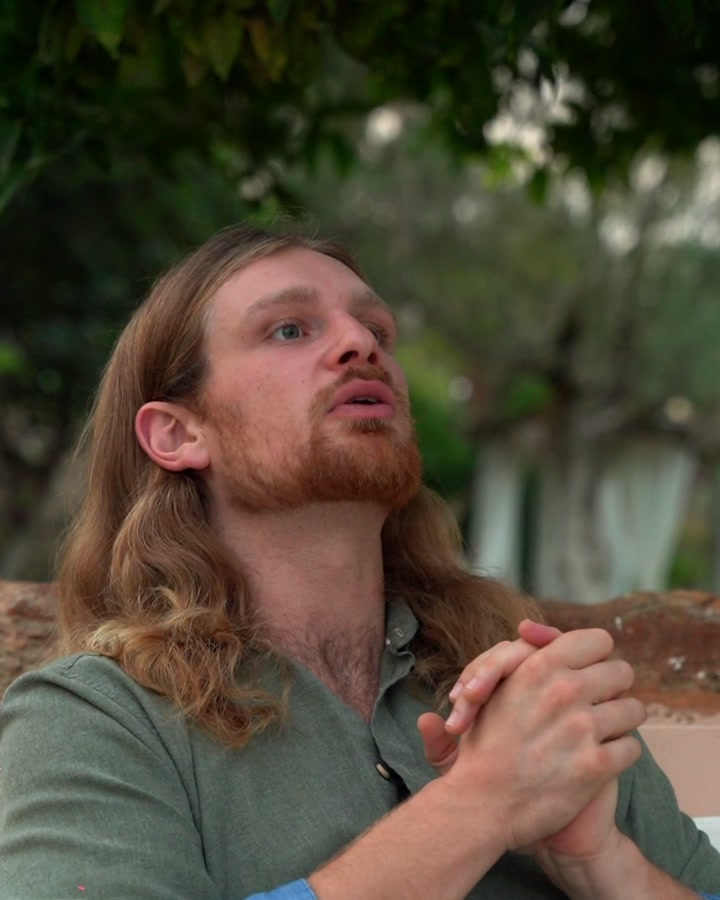
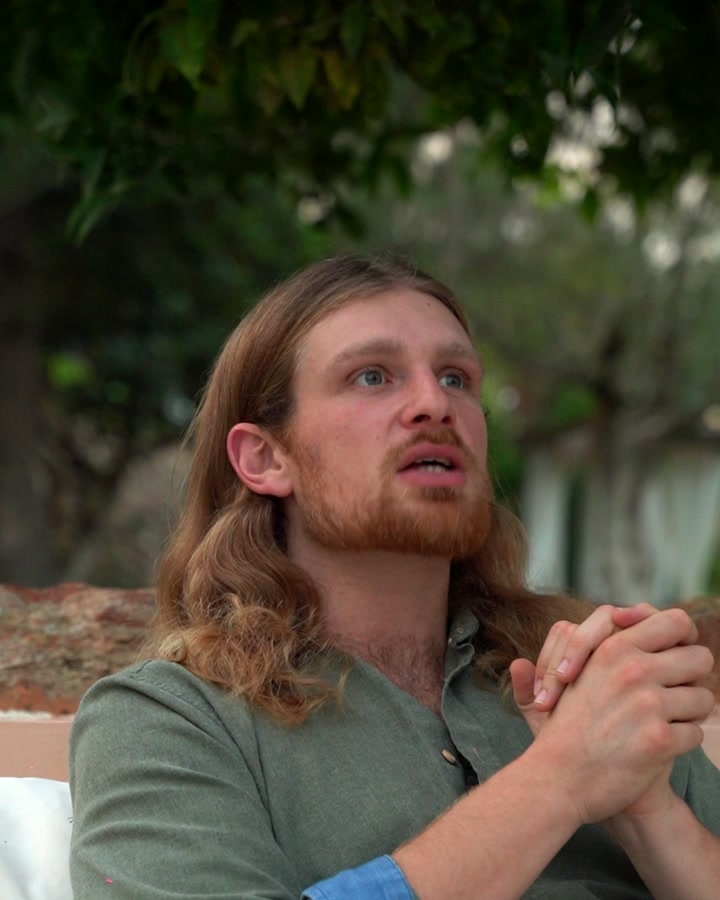
Voices: founding members carousel, names, tighter portrait crops

diff --git a/components/sections/home/HomeVoices.tsx b/components/sections/home/HomeVoices.tsx
@@ -2,9 +2,10 @@ import Section from '@/components/ui/Section'
 import RevealOnScroll from '@/components/ui/RevealOnScroll'
 import Photo from '@/components/ui/Photo'
 import { VOICES } from '@/content/home'
+import VoicesCarousel from './VoicesCarousel'
 
-// Voices from Ibiza: a still from each interview and one line, verbatim.
-// On phones the cards scroll sideways; from lg they sit in one row of five.
+// Voices from founding members: a still from each interview and one line,
+// verbatim, in a swipeable carousel (about 4 cards visible on desktop, 1.5 on phones).
 export default function HomeVoices() {
   return (
     <Section tone="light" id="voices">
@@ -14,29 +15,33 @@ export default function HomeVoices() {
         <p className="mt-4 max-w-xl text-sm" style={{ color: 'var(--text-secondary)' }}>{VOICES.intro}</p>
       </RevealOnScroll>
 
-      <ul className="-mx-6 mt-10 grid snap-x snap-mandatory scroll-px-6 auto-cols-[78%] grid-flow-col gap-4 overflow-x-auto px-6 pb-2 md:-mx-10 md:scroll-px-10 md:px-10 sm:auto-cols-[45%] lg:mx-0 lg:grid-flow-row lg:grid-cols-5 lg:overflow-visible lg:px-0">
-        {VOICES.items.map((v, i) => (
-          <li key={v.clip} className="snap-start">
-            <RevealOnScroll delay={i * 0.05} className="group flex h-full flex-col">
-              <Photo
-                src={v.src}
-                alt={`${v.name}, interviewed at the VIVRA gathering in Ibiza`}
-                aspect="aspect-[4/5]"
-                quality={90}
-                sizes="(min-width: 1024px) 20vw, (min-width: 640px) 45vw, 78vw"
-                imgClassName="transition-transform duration-700 ease-out group-hover:scale-105"
-              />
-              <figure className="mt-5 flex flex-1 flex-col border-t pt-5" style={{ borderColor: 'var(--copper)' }}>
-                <blockquote className="font-display text-lg leading-snug">“{v.quote}”</blockquote>
-                <figcaption className="mt-4 text-sm">
-                  <span>{v.name}</span>
-                  {v.role && <span style={{ color: 'var(--text-quiet)' }}>, {v.role}</span>}
-                </figcaption>
+      <div className="mt-6">
+        <VoicesCarousel label={VOICES.eyebrow}>
+          {VOICES.items.map((v, i) => (
+            <li key={v.clip} className="snap-start" aria-roledescription="slide" aria-label={`${i + 1} of ${VOICES.items.length}`}>
+              <figure className="group flex h-full flex-col">
+                <div className="overflow-hidden">
+                  <Photo
+                    src={v.src}
+                    alt={`${v.name}${v.role ? `, ${v.role}` : ''}, a founding member of VIVRA`}
+                    aspect="aspect-[4/5]"
+                    quality={85}
+                    sizes="(min-width: 1024px) 22vw, (min-width: 768px) 29vw, (min-width: 640px) 40vw, 68vw"
+                    imgClassName="transition-transform duration-700 ease-out group-hover:scale-105"
+                  />
+                </div>
+                <div className="mt-4 flex flex-1 flex-col border-t pt-4" style={{ borderColor: 'var(--copper)' }}>
+                  <blockquote className="font-display text-base leading-snug md:text-lg">“{v.quote}”</blockquote>
+                  <figcaption className="mt-3 text-sm">
+                    <span>{v.name}</span>
+                    {v.role && <span style={{ color: 'var(--text-quiet)' }}>, {v.role}</span>}
+                  </figcaption>
+                </div>
               </figure>
-            </RevealOnScroll>
-          </li>
-        ))}
-      </ul>
+            </li>
+          ))}
+        </VoicesCarousel>
+      </div>
     </Section>
   )
 }

diff --git a/content/home.ts b/content/home.ts
@@ -280,51 +280,51 @@ export const APPLY = {
   note: 'Francisco will write to you to schedule a short call about your profile, our next gatherings and VIVRA membership.',
 }
 
-// [INTERVIEWS] Voices from Ibiza. Quotes are verbatim from the burned-in English
+// [INTERVIEWS] Voices from founding members. Quotes are verbatim from the burned-in English
 // subtitles of the 13 Oct 2026 interview clips (Downloads\VIVRA RETIRO\entrevistas);
 // "…" marks a cut, nothing is reworded. Catalogue: fran-os task VIV-0011.
 // Photos are clean stills from each clip, cropped above the subtitle band.
-// CONFIRM: each person's name and role (shown as [PENDIENTE nombre] until then).
+// Names from Francisco, 2026-11-25. Roles left empty unless already on the site.
 // CONFIRM: written consent from each person (VIV-0011). Until Francisco confirms
 // it in writing, the section renders on preview/staging only, never on production
 // (see showTestimonials() in lib/flags.ts).
 export const VOICES = {
-  eyebrow: 'Voices from Ibiza',
+  eyebrow: 'Voices from founding members',
   heading: 'In their words.',
-  intro: 'Recorded at Can Aylma during the first VIVRA gathering, October 2026.',
+  intro: 'Recorded at the first VIVRA gathering, October 2026.',
   items: [
     {
       clip: 'entrevista 13',
       quote: 'VIVRA events and gatherings is about bringing that collective power and that collective dreams into collective realities.',
-      name: '[PENDIENTE nombre]',
-      role: '',
+      name: 'Saha',
+      role: 'Energy healer',
       src: '/images/testimonials/voice-e13.jpg',
     },
     {
       clip: 'entrevista 17',
       quote: 'It represents a much broader platform for doing good in this world… It’s so scalable here.',
-      name: '[PENDIENTE nombre]',
+      name: 'Bill',
       role: '',
       src: '/images/testimonials/voice-e17.jpg',
     },
     {
       clip: 'entrevista22',
       quote: 'Each of us is doing our own thing, but hopefully together we could do something that actually lasts in time.',
-      name: '[PENDIENTE nombre]',
+      name: 'Sharon',
       role: '',
       src: '/images/testimonials/voice-e22.jpg',
     },
     {
       clip: 'entrevista9',
       quote: 'To me, VIVRA is a new way of living… We usually are divided between work, family, friendship and passion. We want to gather all this in the same place.',
-      name: '[PENDIENTE nombre]',
-      role: '',
+      name: 'Manuele Monti',
+      role: 'Co-founder, VIVRA',
       src: '/images/testimonials/voice-e9.jpg',
     },
     {
       clip: 'entrevista21',
       quote: 'I’m really excited to go back home and take all these different perspectives and best ideas and go demonstrate what it really means to be regenerative.',
-      name: '[PENDIENTE nombre]',
+      name: 'Drew',
       role: '',
       src: '/images/testimonials/voice-e21.jpg',
     },

diff --git a/components/sections/home/VoicesCarousel.tsx b/components/sections/home/VoicesCarousel.tsx
@@ -1,0 +1,60 @@
+'use client'
+
+import { useCallback, useEffect, useRef, useState } from 'react'
+
+// A native scroll-snap track with previous/next buttons. Every card is in the
+// server-rendered HTML (good for search and for no-JS visitors); the buttons
+// only scroll the track. Swipe works on phones, Shift+wheel/trackpad on desktop.
+export default function VoicesCarousel({ children, label }: { children: React.ReactNode; label: string }) {
+  const track = useRef<HTMLUListElement>(null)
+  const [atStart, setAtStart] = useState(true)
+  const [atEnd, setAtEnd] = useState(false)
+
+  const update = useCallback(() => {
+    const el = track.current
+    if (!el) return
+    setAtStart(el.scrollLeft <= 4)
+    setAtEnd(el.scrollLeft + el.clientWidth >= el.scrollWidth - 4)
+  }, [])
+
+  useEffect(() => {
+    update()
+    const el = track.current
+    el?.addEventListener('scroll', update, { passive: true })
+    window.addEventListener('resize', update)
+    return () => {
+      el?.removeEventListener('scroll', update)
+      window.removeEventListener('resize', update)
+    }
+  }, [update])
+
+  const go = (dir: 1 | -1) => {
+    const el = track.current
+    if (!el) return
+    const card = el.querySelector('li')
+    const step = card ? card.getBoundingClientRect().width + 16 : el.clientWidth * 0.8
+    el.scrollBy({ left: dir * step, behavior: 'smooth' })
+  }
+
+  const btn =
+    'flex h-11 w-11 items-center justify-center border transition-colors hover:border-[var(--copper-deep)] hover:text-[var(--copper-deep)] disabled:pointer-events-none disabled:opacity-30'
+
+  return (
+    <div role="region" aria-roledescription="carousel" aria-label={label}>
+      <div className="flex justify-end gap-2">
+        <button type="button" className={btn} style={{ borderColor: 'var(--rule)' }} onClick={() => go(-1)} disabled={atStart} aria-label="Previous voices">
+          <span aria-hidden="true">←</span>
+        </button>
+        <button type="button" className={btn} style={{ borderColor: 'var(--rule)' }} onClick={() => go(1)} disabled={atEnd} aria-label="Next voices">
+          <span aria-hidden="true">→</span>
+        </button>
+      </div>
+      <ul
+        ref={track}
+        className="-mx-6 mt-6 grid snap-x snap-mandatory scroll-px-6 auto-cols-[68%] grid-flow-col gap-4 overflow-x-auto px-6 pb-4 [scrollbar-width:none] sm:auto-cols-[40%] md:-mx-10 md:scroll-px-10 md:auto-cols-[29%] md:px-10 lg:mx-0 lg:scroll-px-0 lg:auto-cols-[calc((100%-4rem)/4.4)] lg:px-0 [&::-webkit-scrollbar]:hidden"
+      >
+        {children}
+      </ul>
+    </div>
+  )
+}
